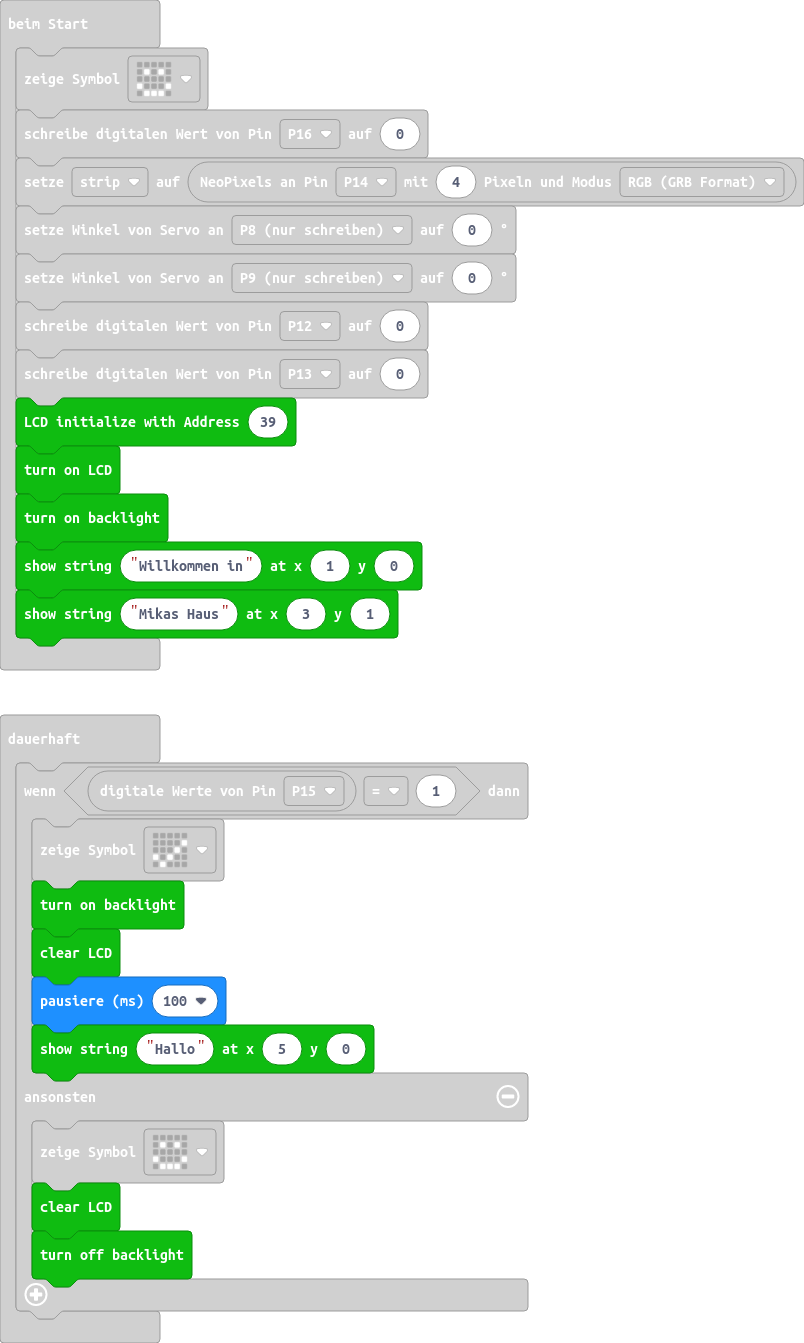
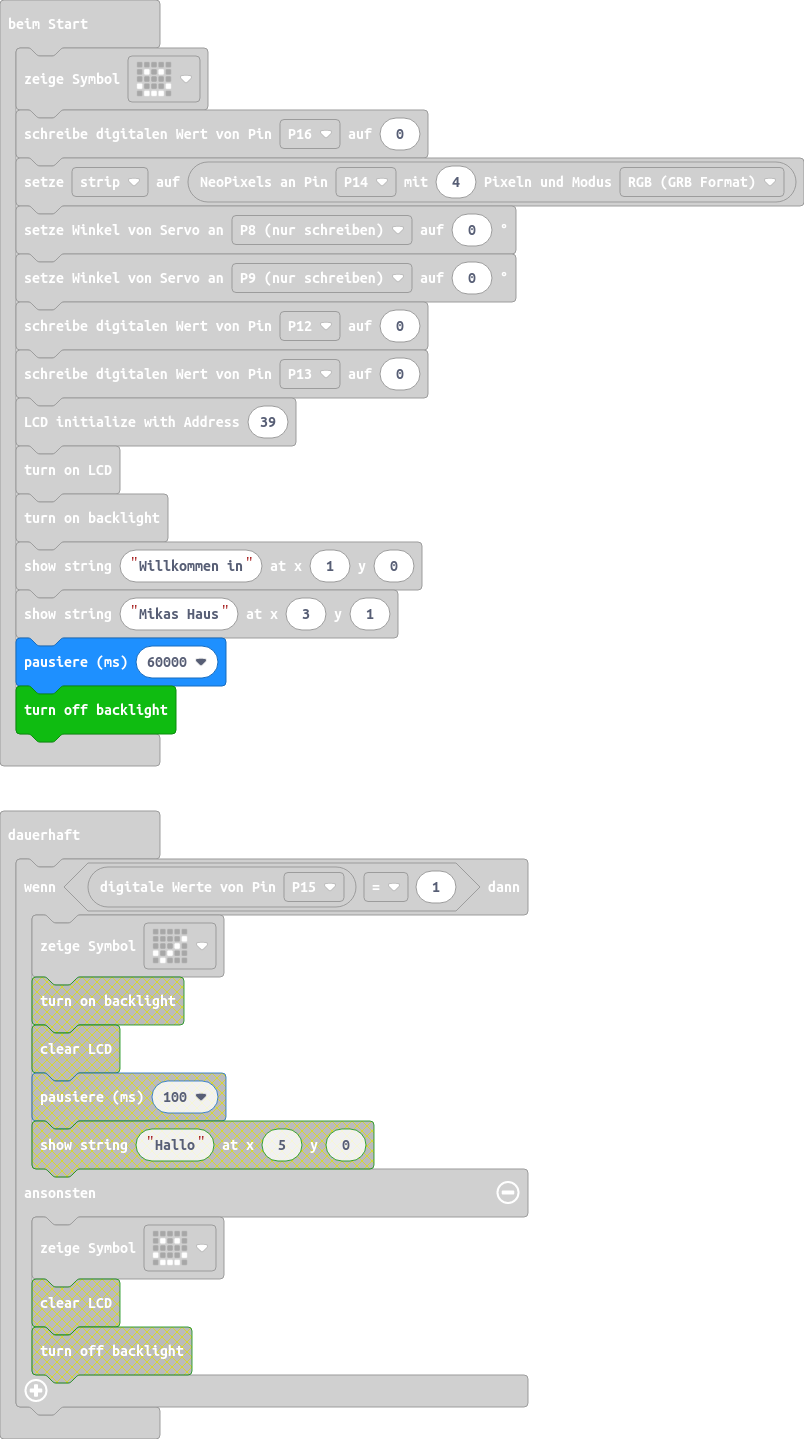
LCD Logik verändert.

Changed region(s): [[0.0, 0.0305, 1.0, 0.9769]]

diff --git a/main.ts b/main.ts
@@ -34,6 +34,8 @@ I2C_LCD1602.on()
 I2C_LCD1602.BacklightOn()
 I2C_LCD1602.ShowString("Willkommen in", 1, 0)
 I2C_LCD1602.ShowString("Mikas Haus", 3, 1)
+basic.pause(60000)
+I2C_LCD1602.BacklightOff()
 basic.forever(function () {
     pins.analogWritePin(AnalogPin.P16, 1000)
     basic.pause(200)
@@ -59,14 +61,8 @@ basic.forever(function () {
 basic.forever(function () {
     if (pins.digitalReadPin(DigitalPin.P15) == 1) {
         basic.showIcon(IconNames.Yes)
-        I2C_LCD1602.BacklightOn()
-        I2C_LCD1602.clear()
-        basic.pause(100)
-        I2C_LCD1602.ShowString("Hallo", 5, 0)
     } else {
         basic.showIcon(IconNames.Happy)
-        I2C_LCD1602.clear()
-        I2C_LCD1602.BacklightOff()
     }
 })
 basic.forever(function () {
